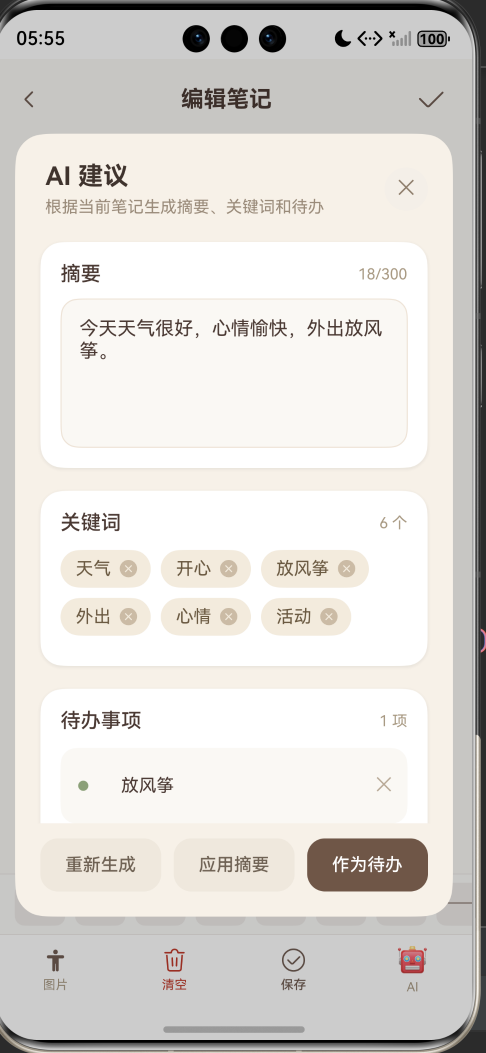
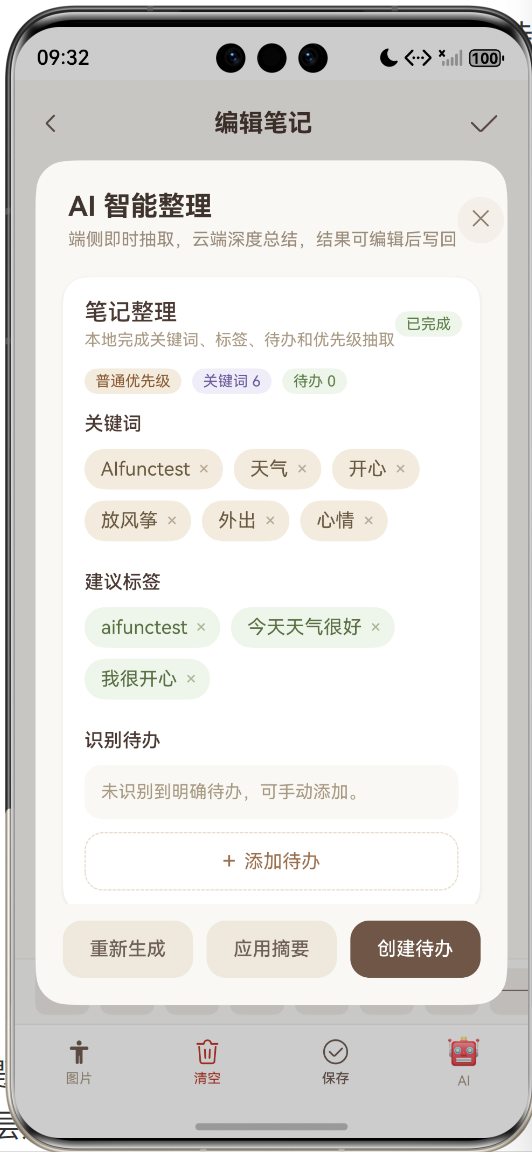
readme -3th

diff --git a/README.md b/README.md
@@ -16,28 +16,81 @@
 
 ## 二、目前完成的功能
 
-1. **多模态笔记**
-   - 支持文字标题、长文内容
-   - 支持插入图片（以图片路径/URL 形式保存到 `image_paths` 字段，并在编辑页预览）
-   - 增加了摘要部分，在笔记卡片中可以显示摘要部分
-   - 增加了笔记的便携输入：加粗、三级标题、自动分割线、一键插入时间、字体颜色改变、注意标识、引用标识等
-   - 增加了模板模块：根据不同类型的笔记，用户可以选择读书笔记、心情随笔、会议记录等模板
-   - 增加了滑动删除功能，左滑卡片可以快捷删除卡片
-   - 图片上传方式增加了相册上传功能和拍照【模拟机没有相机，该功能目前处于占位】，相册和URL上传的图片会在底部以三列滑动的方式呈现，支持快速删除
-2. **分类/标签管理**
-   - 支持标签的新增、列表、删除
-   - 笔记支持选择标签并在列表展示，增加了滑动显示和首页快速增加
-3. **待办状态机**
-   - 待办支持 `pending（待处理）/ completed（已完成）/ delayed（已延期）` 三态切换
-   - 支持按状态筛选、创建/删除待办（可选截止日期）
-   - 改变了截止日期选择方式，并增加了根据时间确定是已延期还是待处理
-   - 增加了紧急程度选择 `紧急重要` `紧急不重要` `不紧急重要` `不紧急不重要`，对应给了四个颜色
-   - 增加了卡片快速更换状态和紧急程度变化 ，增加了状态根据时间动态自动更新
-4. **搜索功能**
-   - 支持按关键字（标题/内容）搜索笔记
-   - 支持按日期范围（`created_from`～`created_to`）与标签筛选
-   - 改变了日期选择方式，增加了首页快速搜索
-   同时完成关键测试点：标题为空时保存校验拦截：前端保存前校验 + 后端二次校验（新建/更新均校验）。
+### 1. 多模态笔记
+
+- 支持文字标题、摘要、长文内容，摘要可在笔记卡片中直接展示
+- 支持插入图片：相册选图、拍照（模拟器占位）、URL 粘贴，图片以三列网格呈现，支持快速删除
+- 富文本快捷工具栏：加粗、三级标题、分割线、插入时间戳、字体颜色、注意标识、引用标识
+- 模板系统：内置读书笔记、心情随笔、会议记录三种预设模板，编辑时弹出选择框一键填充
+- 左滑卡片快捷删除；标题为空时保存前校验拦截（前端 + 后端双重校验）
+
+### 2. 分类/标签管理
+
+- 支持标签新增、列表展示、删除
+- 笔记可绑定标签，首页标签栏支持左右滑动筛选，末尾提供快捷新增/管理入口
+
+### 3. 待办状态机
+
+- 三态切换：`pending（待处理）`/ `completed（已完成）`/ `delayed（已延期）`
+- 截止日期选择器，状态根据当前时间动态自动更新（过期自动变为已延期）
+- 四级紧急程度：`紧急重要` / `紧急不重要` / `不紧急重要` / `不紧急不重要`，各对应独立颜色标签
+- 卡片内快速切换状态与紧急程度；支持按状态 + 优先级双层筛选
+
+### 4. 搜索功能
+
+- 关键字搜索（匹配标题与正文内容）
+- 日期范围筛选（`created_from` ～ `created_to`）
+- 标签筛选；首页顶部提供快速搜索入口
+
+### 5. 主题换肤
+
+- 五套内置主题：原野棕、晴空蓝、嫩芽绿、樱花粉、薰衣草紫
+- 主题颜色从后端读取，切换后通过 `AppStorage` 全局同步，所有页面（欢迎页、笔记页、编辑页、搜索页、标签页、待办页）背景色与主色实时响应
+- 在「行囊」模块点击「主题装扮」弹出选择面板，当前主题高亮显示
+
+### 6. AI 功能（端侧 + 云端）
+
+#### 端侧模型（本地抽取）
+
+在笔记编辑页点击 AI 按钮，调用本地轻量算法对笔记内容进行分析，**无需网络即可运行**：
+
+| 功能       | 实现方式                                    |
+| ---------- | ------------------------------------------- |
+| 关键词提取 | 词频统计 + 停用词过滤                       |
+| 标签生成   | 取前 3 个高频关键词                         |
+| 待办识别   | 正则匹配（checkbox / dash / todo 等关键词） |
+| 优先级判断 | 关键词匹配（urgent / important / asap 等）  |
+
+API 端点：
+
+```
+POST /notes/{note_id}/ai/extract
+```
+
+#### 云端大模型（在线摘要）
+
+同一弹窗内，端侧抽取完成后自动继续调用云端接口，进行更高质量的长文摘要与关键词增强，**失败时自动降级保留端侧结果并提示用户**：
+
+- 生成自然语言摘要（可编辑）
+- 增强关键词列表
+- 提取待办事项
+
+API 端点：
+
+```
+POST /notes/{note_id}/ai/summarize
+```
+
+云端服务的 Provider URL 与 API Key 可在「行囊 → 设置中心」中配置，无需重新编译。
+
+#### AI 结果落地
+
+AI 建议弹窗内的所有结果均可编辑，并通过以下操作写回应用：
+
+- **应用摘要**：将生成的摘要写回笔记摘要字段并保存
+- **作为待办**：将识别出的待办项批量创建到待办看板
+- **关键词**：可在弹窗内增删，后续可用于标签推荐
+
 ## 三、目录结构
 ```
 llama-llist/
@@ -93,7 +146,7 @@ llama-llist/
 
 ### 1. 后端启动
 
-![alt text](image.png)
+![alt text](assets/image.png)
 
 1. **进入后端目录**
    ```bash
@@ -139,7 +192,7 @@ llama-llist/
 
 ## 五、页面设计
 ### 1. 欢迎页
-持续一段时间后进入主页
+Logo + 标语淡入动画，2.5 秒后自动跳转主页，背景色跟随当前主题。
 
 <img src="assets/image-2.png" alt="alt text" width="30%" />
 
@@ -147,27 +200,27 @@ llama-llist/
 
 <img src="assets/image-3.png" alt="alt text" width="30%" />
 
-标题和标语    搜索键
-标签呈现【左右滑动，最后是新增/管理标签快捷键】
+顶部：标题/标语 + 搜索快捷键
+标签栏：左右滑动筛选，末尾提供新增/管理标签快捷入口
 
 <img src="assets/image-9.png" alt="alt text" width="30%" />
 
-笔记呈现【上下滑切换笔记，左滑出现删除键】
-右下角新建笔记
+笔记列表：上下滚动，左滑出现删除键，卡片显示标题、摘要、标签与时间
+右下角：新建笔记悬浮按钮
 
 <img src="assets/image-4.png" alt="alt text" width="30%" />
 
 ---
 
 新建笔记页面：
-返回 确认键
-从上到下依次为：标题、摘要、标签、正文、文字输入功能区【模板放在该栏最后，使用时弹出小框】、笔记功能区【照片、清空和保存】
+
+返回键 / 确认键 → 标题 → 摘要 → 标签选择 → 正文 → 富文本工具栏（含模板选择）→ 底部功能栏（图片 / AI建议 / 清空 / 保存）
 
 <img src="assets/image-5.png" alt="alt text" width="30%" /><img src="assets/image-6.png" alt="alt text" width="30%" /><img src="assets/image-8.png" alt="alt text" width="30%" />
 
-AI建议功能：
+分为摘要（云端 · 暖棕色条）、关键词（端侧 · 淡紫色条）、待办（端侧 · 灰绿色条）三个区块，结果可编辑，支持应用摘要、作为待办写回。
 
-<img src="assets/image-14.png" alt="alt text" width="30%" />
+<img src="assets/image-14.png" alt="alt text" width="30%" /><img src="assets/image-16.png" alt="alt text" width="30%" />
 
 
 ### 3. Llama Peak   山峰---任务区
@@ -187,36 +240,43 @@ AI建议功能：
 
 ### 4. Llama Pack   行囊---管理区
 
-标题和标语
-标签管理
-笔记搜索
-主题装扮【待实现】
-设置中心【待实现】
+| 入口       | 功能                                     |
+| ---------- | ---------------------------------------- |
+| 🏷️ 标签管理 | 跳转标签管理页，支持新增/删除标签        |
+| 🔍 笔记搜索 | 跳转搜索页，支持关键字 + 日期 + 标签筛选 |
+| 🎨 主题装扮 | 弹出主题选择面板，切换后全局生效         |
+| ⚙️ 设置中心 | 配置云端 AI 的 Provider URL 与 API Key   |
 
 <img src="assets/image-13.png" alt="alt text" width="30%" /><img src="assets/image-15.png" alt="alt text" width="30%" />
 
-
 ## 六、API 接口概览
 
-| 方法   | 路径            | 说明                     | 状态码 |
-|--------|----------------|--------------------------|--------|
-| GET    | `/`            | 健康检查                 | 200    |
-| GET    | `/notes/`      | 获取笔记列表（支持分页/搜索筛选） | 200    |
-| POST   | `/notes/`      | 创建新笔记               | 201    |
-| GET    | `/notes/{id}`  | 获取单条笔记             | 200    |
-| PUT    | `/notes/{id}`  | 更新笔记                 | 200    |
-| DELETE | `/notes/{id}`  | 删除笔记                 | 204    |
-| GET    | `/tags/`       | 获取所有标签             | 200    |
-| POST   | `/tags/`       | 创建标签                 | 201    |
-| DELETE | `/tags/{id}`   | 删除标签                 | 204    |
-| GET    | `/todos/`      | 获取待办列表（支持筛选） | 200    |
-| POST   | `/todos/`      | 创建待办                 | 201    |
-| PUT    | `/todos/{id}`  | 更新待办（状态机切换等） | 200    |
-| DELETE | `/todos/{id}`  | 删除待办                 | 204    |
-| POST   | `/files/upload`| 上传图片（返回 `/uploads/...`） | 201    |
-| ...    | ...            | 更多接口见 `/docs`       | ...    |
+| 方法   | 路径                        | 说明                              | 状态码 |
+| ------ | --------------------------- | --------------------------------- | ------ |
+| GET    | `/`                         | 健康检查                          | 200    |
+| GET    | `/notes/`                   | 获取笔记列表（支持分页/搜索筛选） | 200    |
+| POST   | `/notes/`                   | 创建新笔记                        | 201    |
+| GET    | `/notes/{id}`               | 获取单条笔记                      | 200    |
+| PUT    | `/notes/{id}`               | 更新笔记                          | 200    |
+| DELETE | `/notes/{id}`               | 删除笔记                          | 204    |
+| POST   | `/notes/{id}/ai/extract`    | 端侧关键词/待办抽取               | 200    |
+| POST   | `/notes/{id}/ai/summarize`  | 云端摘要生成                      | 200    |
+| POST   | `/notes/{id}/ai/regenerate` | 重新生成端侧抽取结果              | 200    |
+| GET    | `/tags/`                    | 获取所有标签                      | 200    |
+| POST   | `/tags/`                    | 创建标签                          | 201    |
+| DELETE | `/tags/{id}`                | 删除标签                          | 204    |
+| GET    | `/todos/`                   | 获取待办列表（支持筛选）          | 200    |
+| POST   | `/todos/`                   | 创建待办                          | 201    |
+| PUT    | `/todos/{id}`               | 更新待办（状态机切换等）          | 200    |
+| DELETE | `/todos/{id}`               | 删除待办                          | 204    |
+| GET    | `/templates/`               | 获取模板列表                      | 200    |
+| POST   | `/files/upload`             | 上传图片（返回 `/uploads/...`）   | 201    |
+| GET    | `/settings/theme`           | 获取主题列表                      | 200    |
+| GET    | `/settings/ai`              | 获取 AI 配置                      | 200    |
+| POST   | `/settings/ai`              | 保存 AI Provider URL 与 Key       | 200    |
+| ...    | ...                         | ...                               | ...    |
 
-> 详细请求/响应格式请访问 `http://localhost:8000/docs`（后端启动后）
+> 详细请求/响应格式请访问 `http://localhost:8000/docs`（后端启动后自动生成）
 
 ## 七、前端 BASE_URL 配置
 - 统一在 common/constants/Config.ets 中修改 BASE_URL
@@ -224,50 +284,23 @@ AI建议功能：
 
 ## 八、数据库现状与待完善之处
 
-当前 `models.py` 已包含以下表：
+当前 `models.py` 包含以下数据表：
 
-- `notes`：笔记主表（标题、概要、内容、图片路径、时间戳、标签外键、预留的 `embedding` 向量字段）
-- `tags`：标签表（名称唯一）
-- `todos`：待办表（标题、状态、截止日期、关联笔记 ID、紧急程度）
-- `template`：模板（编号、名字、内容框架、图标等）
+| 表名        | 说明                                                         |
+| ----------- | ------------------------------------------------------------ |
+| `notes`     | 笔记主表（标题、摘要、内容、图片路径、时间戳、标签外键、embedding 预留字段） |
+| `tags`      | 标签表（名称唯一）                                           |
+| `todos`     | 待办表（标题、状态、截止日期、关联笔记 ID、紧急程度）        |
+| `templates` | 模板表（名称、分类、内容框架、图标），后端启动时自动初始化 3 条预设 |
+| `themes`    | 主题表（5 套颜色方案），后端启动时自动初始化                 |
+| `settings`  | 键值对设置表（存储 AI Provider URL、API Key 等）             |
 
-**已满足的功能**：笔记 CRUD（含搜索筛选）、标签管理、待办状态机（含筛选）。  
-**后续可完善的方向**：
+**后续可完善的方向：**
 
-| 方向 | 说明 |
-|------|------|
-| **索引优化** | 为 `notes.created_at`、`todos.status`、`todos.deadline` 添加索引以提升查询性能 |
-| **级联删除** | `note_id` 外键可添加 `ondelete="CASCADE"`，使删除笔记时自动删除关联的待办 |
-| **embedding 字段** | 当前为 `Text` 类型，实际使用时需将向量序列化为 JSON 字符串；后续可改用 `Vector` 类型（需第三方扩展） |
-| **图片存储** | `image_paths` 存储逗号分隔路径，建议改为一对多关联表，支持更灵活的图片管理 |
-| **数据库迁移** | 目前使用 `Base.metadata.create_all`，生产环境建议引入 `Alembic` 进行版本化迁移 |
-
-## 实现了的AI 扩展点
-### 本地提取功能（端侧模型）
-
-| 功能 | 实现方式 |
-|------|------|
-| 关键词提取| 词频统计 + 停用词过滤 |
-| 标签生成 | 取前 3 个关键词 |
-| Todo 识别 | 正则表达式匹配 (checkbox, dash, todo 关键词) |
-| 优先级判断 |	关键词匹配（urgent, important, asap 等）|
-
-API端点
-```
-POST /ai/local/extract/{note_id}
-POST /notes/{note_id}/ai/extract
-```
-
-### 云端摘要功能
-API端点
-```
-POST /ai/cloud/summarize/{note_id} 
-POST /notes/{note_id}/ai/summarize
-```
-功能：可在“行囊”模块配置url和apikey
-+ 生成摘要
-+ 提取关键词
-+ 提取标签
-+ 提取Todo
-可以应用摘要、标签、Todo等
-重新生成可以再次调用尝试
+| 方向           | 说明                                                         |
+| -------------- | ------------------------------------------------------------ |
+| 索引优化       | 为 `notes.created_at`、`todos.status`、`todos.deadline` 添加索引提升查询性能 |
+| 级联删除       | `note_id` 外键添加 `ondelete="CASCADE"`，删除笔记时自动清理关联待办 |
+| embedding 字段 | 当前为 `Text` 类型存 JSON 字符串，后续可改用向量数据库或专用扩展 |
+| 图片存储       | `image_paths` 当前为逗号分隔路径，建议改为独立图片关联表     |
+| 数据库迁移     | 生产环境建议引入 Alembic 进行版本化迁移管理                  |